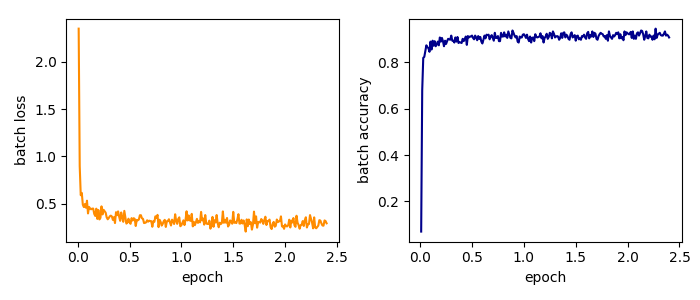
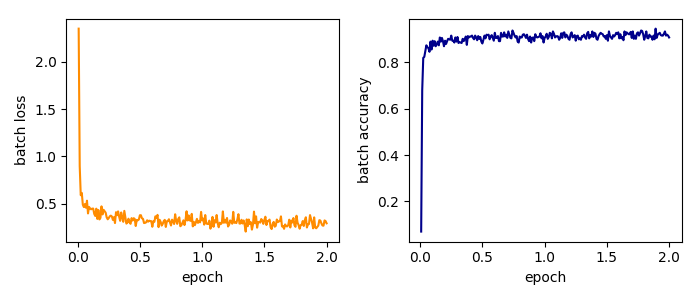
Wrong scaling of epochs

diff --git a/examples/hbp/01_single_layer_mnist.py b/examples/hbp/01_single_layer_mnist.py
@@ -77,7 +77,7 @@ batch_loss = [ ]
 batch_acc = [ ]
 
 samples = 0
-samples_per_epoch = 50000.
+samples_per_epoch = 60000.
 for epoch in range(num_epochs):
     iters = len(train_loader)
 

diff --git a/examples/hbp/01_single_layer_mnist.md b/examples/hbp/01_single_layer_mnist.md
@@ -1,16 +1,16 @@
-- [Second-order optimization of a simple network on MNIST](#org20ae2e8)
-  - [Load MNIST](#org8c5a12c)
-  - [Model](#orgdab1243)
-  - [Loss function](#orgabfd5d7)
-  - [Optimizer](#orgb4e1f86)
-  - [Run training](#orga7c3ea6)
-    - [Specify the curvature matrix](#orgd0e2caf)
-    - [The training loop](#org067ce4e)
-  - [References](#org518108a)
+- [Second-order optimization of a simple network on MNIST](#orgdbb5591)
+  - [Load MNIST](#orga1ba8d5)
+  - [Model](#orgc5de75e)
+  - [Loss function](#org1b68cc4)
+  - [Optimizer](#org41e0b87)
+  - [Run training](#org9a3ed98)
+    - [Specify the curvature matrix](#orgd8ec83f)
+    - [The training loop](#org269a017)
+  - [References](#org3d2f967)
 
 
 
-<a id="org20ae2e8"></a>
+<a id="orgdbb5591"></a>
 
 # Second-order optimization of a simple network on MNIST
 
@@ -56,7 +56,7 @@ from bpexts.utils import set_seeds
     ```
 
 
-<a id="org8c5a12c"></a>
+<a id="orga1ba8d5"></a>
 
 ## Load MNIST
 
@@ -76,7 +76,7 @@ train_loader = torch.utils.data.DataLoader(
 ```
 
 
-<a id="orgdab1243"></a>
+<a id="orgc5de75e"></a>
 
 ## Model
 
@@ -102,10 +102,10 @@ print(model)
 -   It is decorated with `hooks` that will store `buffers` during the forward/backward pass in order to perform HBP
 -   There are different approximation modes (indicated by `avg_param_jac`) for HBP
 
-For more details, please refer to our [paper](#org243d929).
+For more details, please refer to our [paper](#org22a7785).
 
 
-<a id="orgabfd5d7"></a>
+<a id="org1b68cc4"></a>
 
 ## Loss function
 
@@ -116,11 +116,11 @@ loss_func = CrossEntropyLoss()
 ```
 
 
-<a id="orgb4e1f86"></a>
+<a id="org41e0b87"></a>
 
 ## Optimizer
 
-We will use a Newton-Style optimizer that solves for the parameter update with the method of conjugate gradients (CG). The update rule is described in our [paper](#org243d929). It can be used in the same way as ~torch.optim.Optimizer~s and involves a regularization parameter &alpha; &isin; [0, 1] and a learning rate. Stopping criteria for when CG is supposed to stop can be specified by additional parameters.
+We will use a Newton-Style optimizer that solves for the parameter update with the method of conjugate gradients (CG). The update rule is described in our [paper](#org22a7785). It can be used in the same way as `torch.optim.Optimizer` s and involves a regularization parameter &alpha; &isin; [0, 1] and a learning rate. Stopping criteria for when CG is supposed to stop can be specified by additional parameters.
 
 ```python
 # learning rate
@@ -145,7 +145,7 @@ optimizer = CGNewton(
 ```
 
 
-<a id="orga7c3ea6"></a>
+<a id="org9a3ed98"></a>
 
 ## Run training
 
@@ -160,7 +160,7 @@ During the training loop, we will
 5.  Solve for the parameter update and apply it
 
 
-<a id="orgd0e2caf"></a>
+<a id="orgd8ec83f"></a>
 
 ### Specify the curvature matrix
 
@@ -181,7 +181,7 @@ We can obtain approximations of different curvature matrices by choosing `modify
 **Note:** For our model, a **single** linear layer, all choices will yield the same curvature estimate.
 
 
-<a id="org067ce4e"></a>
+<a id="org269a017"></a>
 
 ### The training loop
 
@@ -198,7 +198,7 @@ batch_loss = [ ]
 batch_acc = [ ]
 
 samples = 0
-samples_per_epoch = 50000.
+samples_per_epoch = 60000.
 for epoch in range(num_epochs):
     iters = len(train_loader)
 
@@ -325,8 +325,8 @@ plt.savefig('01_single_layer_mnist_metrics.png')
 ![img](./01_single_layer_mnist_metrics.png)
 
 
-<a id="org518108a"></a>
+<a id="org3d2f967"></a>
 
 ## References
 
--   <a id="org243d929"></a> [[1](#org243d929)] Dangel, F. and Hennig, P.: [A Modular Approach to Block-diagonal Hessian Approximations for Second-order Optimization](https://arxiv.org/abs/1902.01813) (2019)
+-   <a id="org22a7785"></a> [[1](#org22a7785)] Dangel, F. and Hennig, P.: [A Modular Approach to Block-diagonal Hessian Approximations for Second-order Optimization](https://arxiv.org/abs/1902.01813) (2019)
